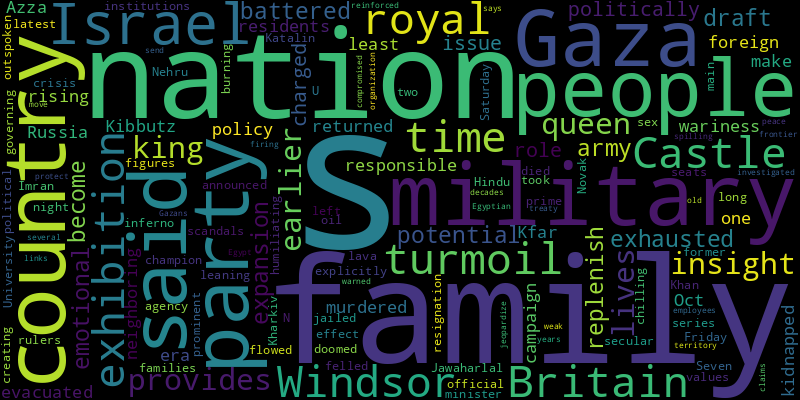
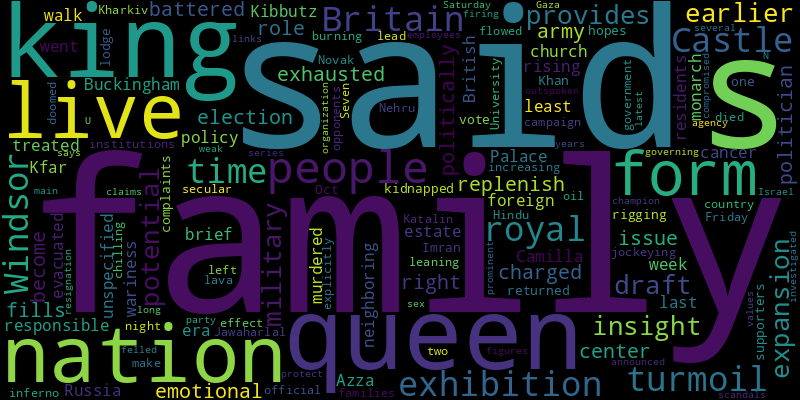
chore(bot): 👿 auto commit

diff --git a/README.md b/README.md
@@ -4,39 +4,39 @@ Auto RSS New York Times and Generate Word Cloud
 ## New York Times Global News
 * At a time of turmoil for Britain’s royal family, an exhibition at Windsor Castle provides an insight into the lives of an earlier king and queen.
 * A potential expansion of the nation’s military draft to replenish the exhausted, battered army has become an emotional, politically charged issue.
-* The role is responsible for foreign policy in an era of rising wariness of neighboring Russia.
+* The election of the center-right politician fills a role that is responsible for foreign policy in an era of rising wariness of neighboring Russia.
+* The British monarch and Queen Camilla went for a brief walk to a church on the estate where they live. Buckingham Palace said last week that the king was being treated for an unspecified form of cancer.
 * Kibbutz Kfar Azza was evacuated after more than 60 residents were murdered and at least 18 were kidnapped on Oct. 7. But one family has returned.
+* As supporters of Imran Khan lodge complaints of vote rigging in hopes of increasing their lead, his opponents are jockeying to form a government.
 * A campaign to make the country an explicitly Hindu nation has had a chilling effect on left-leaning and secular institutions like Jawaharlal Nehru University.
 * Seven people from two families died in the inferno in Kharkiv on Friday night, as burning oil flowed like lava. “People were doomed,” an official said.
 * Katalin Novak, an outspoken champion of family values, announced her resignation on Saturday, the latest in a series of prominent figures in the governing party felled by sex scandals.
-* The party of Imran Khan, the jailed former prime minister, took the most seats, humiliating the country’s military rulers and creating a political crisis.
 * The main U.N. agency in Gaza said it has long investigated claims of links, firing several employees over the years. Israel says it is a compromised organization too weak to protect itself.
-* Egypt has reinforced its frontier with Gaza and warned Israel that any move that would send Gazans spilling into Egyptian territory could jeopardize their decades-old peace treaty.
 
 ![Global](./global.png)
 ## New York Times United States News
 * Thompson’s 1971 book “Fear and Loathing in Las Vegas” and a later article on the Super Bowl glimpsed much of what has become of these exemplars of American excess.
-* President Biden’s age has once again become a talking point in national politics. Many older Americans agree that it’s an issue; others feel it’s insulting.
-* Herbert Wigwe, a prominent Nigerian banker, was killed in the accident.
-* The Super Bowl is bringing to the surface an amusing but very real generational divide in the Bay Area.
-* The legislation faces a critical vote today in the Senate.
-* Two of the state’s largest church groups are teaming up in a rare effort they say is motivated by this year’s stakes and new voting restrictions in Georgia.
-* A friendship forged in a Las Vegas barbershop offers clues to one of the biggest questions of the presidential election: Can Democrats win back Latino men?
+* Herbert Wigwe, the director of one of Nigeria’s leading financial institutions, died in the crash on Friday.
 * For one family, grieving the child they lost in the Parkland, Fla., school shooting is complicated by differences in language and culture.
-* Representative Mike Gallagher of Wisconsin, once seen as a rising star, made the announcement just days after voting against impeaching the homeland security secretary.
-* Speaking in Conway, S.C., Donald J. Trump said as president he’d told NATO allies that he would urge Russian aggression against countries that owed the military alliance money.
+* President Biden’s age has once again become a talking point in national politics. Many older Americans agree that it’s an issue; others feel it’s insulting.
+* The justice took part in a public conversation on the afternoon of a Supreme Court hearing about whether the former president may hold office again.
+* The Democratic-allied Campaign for a Family Friendly Economy intends to lift President Biden and important House and Senate races.
+* A tire shop parking lot has become a popular destination for those craving the beloved treat. The only problem: Which variety to choose?
+* Defending Donald Trump or deflecting his statements, some top G.O.P. officials reflected the trajectory of a party that the former president has largely bent to his will.
+* American Values 2024, the super PAC supporting Robert F. Kennedy Jr.’s presidential campaign, paid $7 million for a Super Bowl spot.
+* Taylor Swift and Travis Kelce have been the subject of right-wing conspiracy theories for months.
 
 ![US](./usnews.png)
 ## New York Times Asia News
+* More than 100 million people are expected to vote. The country is a vibrant democracy, but some fear it risks sliding back toward a dark past.
+* The leading Chinese electric vehicle company, with origins as a battery maker, has posted two years of million-car growth in sales.
+* Also, Donald Trump derides NATO and the U.S. prepares to watch the Super Bowl.
+* Mr. Khan’s success was fueled by social media, which drove Pakistan’s young people to turn out to vote and rebuff the country’s powerful military.
+* Former President Donald J. Trump suggested that he would incite Russia to attack “delinquent” U.S. allies, foreshadowing potentially far-reaching changes in the world order if he wins the White House again.
+* It was not the first time the technology had been used in Pakistan’s notably repressive election season, but this time it got the world’s attention.
+* As supporters of Imran Khan lodge complaints of vote rigging in hopes of increasing their lead, his opponents are jockeying to form a government.
 * A campaign to make the country an explicitly Hindu nation has had a chilling effect on left-leaning and secular institutions like Jawaharlal Nehru University.
 * The party of Imran Khan, the jailed former prime minister, took the most seats, humiliating the country’s military rulers and creating a political crisis.
 * Growing a spice once worth its weight in gold, a tiny isle in Indonesia was so coveted that the Dutch traded Manhattan for it. Some 350 years later, life on the two islands couldn’t be more different.
-* When officials arrived to raze a mosque and seminary ruled to be illegally located on public property, they encountered hundreds of protesters.
-* Some Japanese spectators are grumbling that foreign concertgoers visiting Tokyo don’t share their rather restrained local approach to taking in a show.
-* From onsens in Japan to high-altitude pools in Bolivia, the photographer Greta Rybus shares highlights from her search for thermal waters.
-* The military had cracked down on the party of the former prime minister in favor of another former leader, Nawaz Sharif. But Mr. Sharif’s party was lagging as results trickled in.
-* Also, Pakistan’s elections and a shake-up in Ukraine’s military leadership.
-* Karolina Shiino, a naturalized Japanese citizen who was born in Ukraine, resigned two weeks after winning the Miss Japan crown.
-* In addition to consumer price declines in January, wholesale prices fell last month, and have been down in every month since October 2022.
 
 ![Asian](./asian.png)
